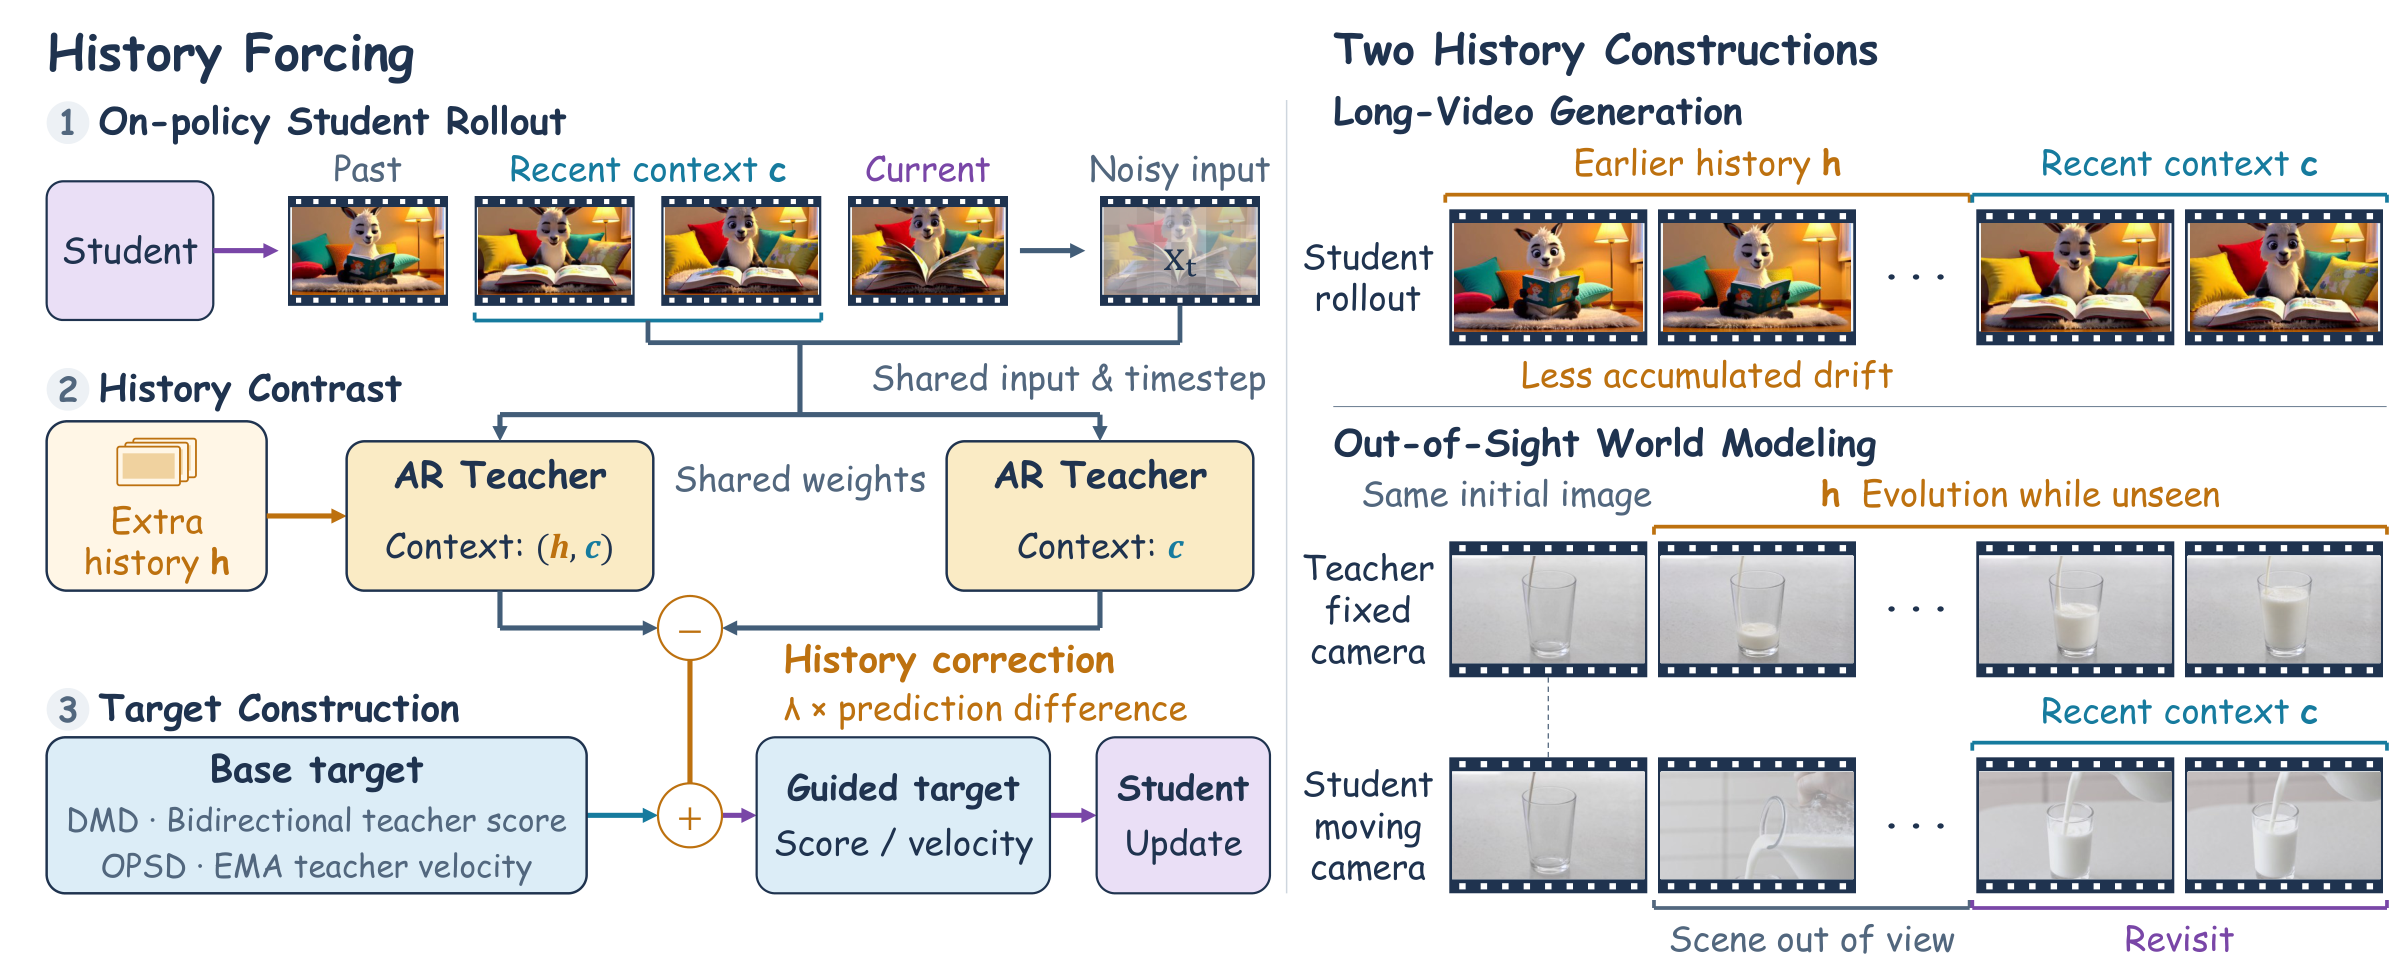
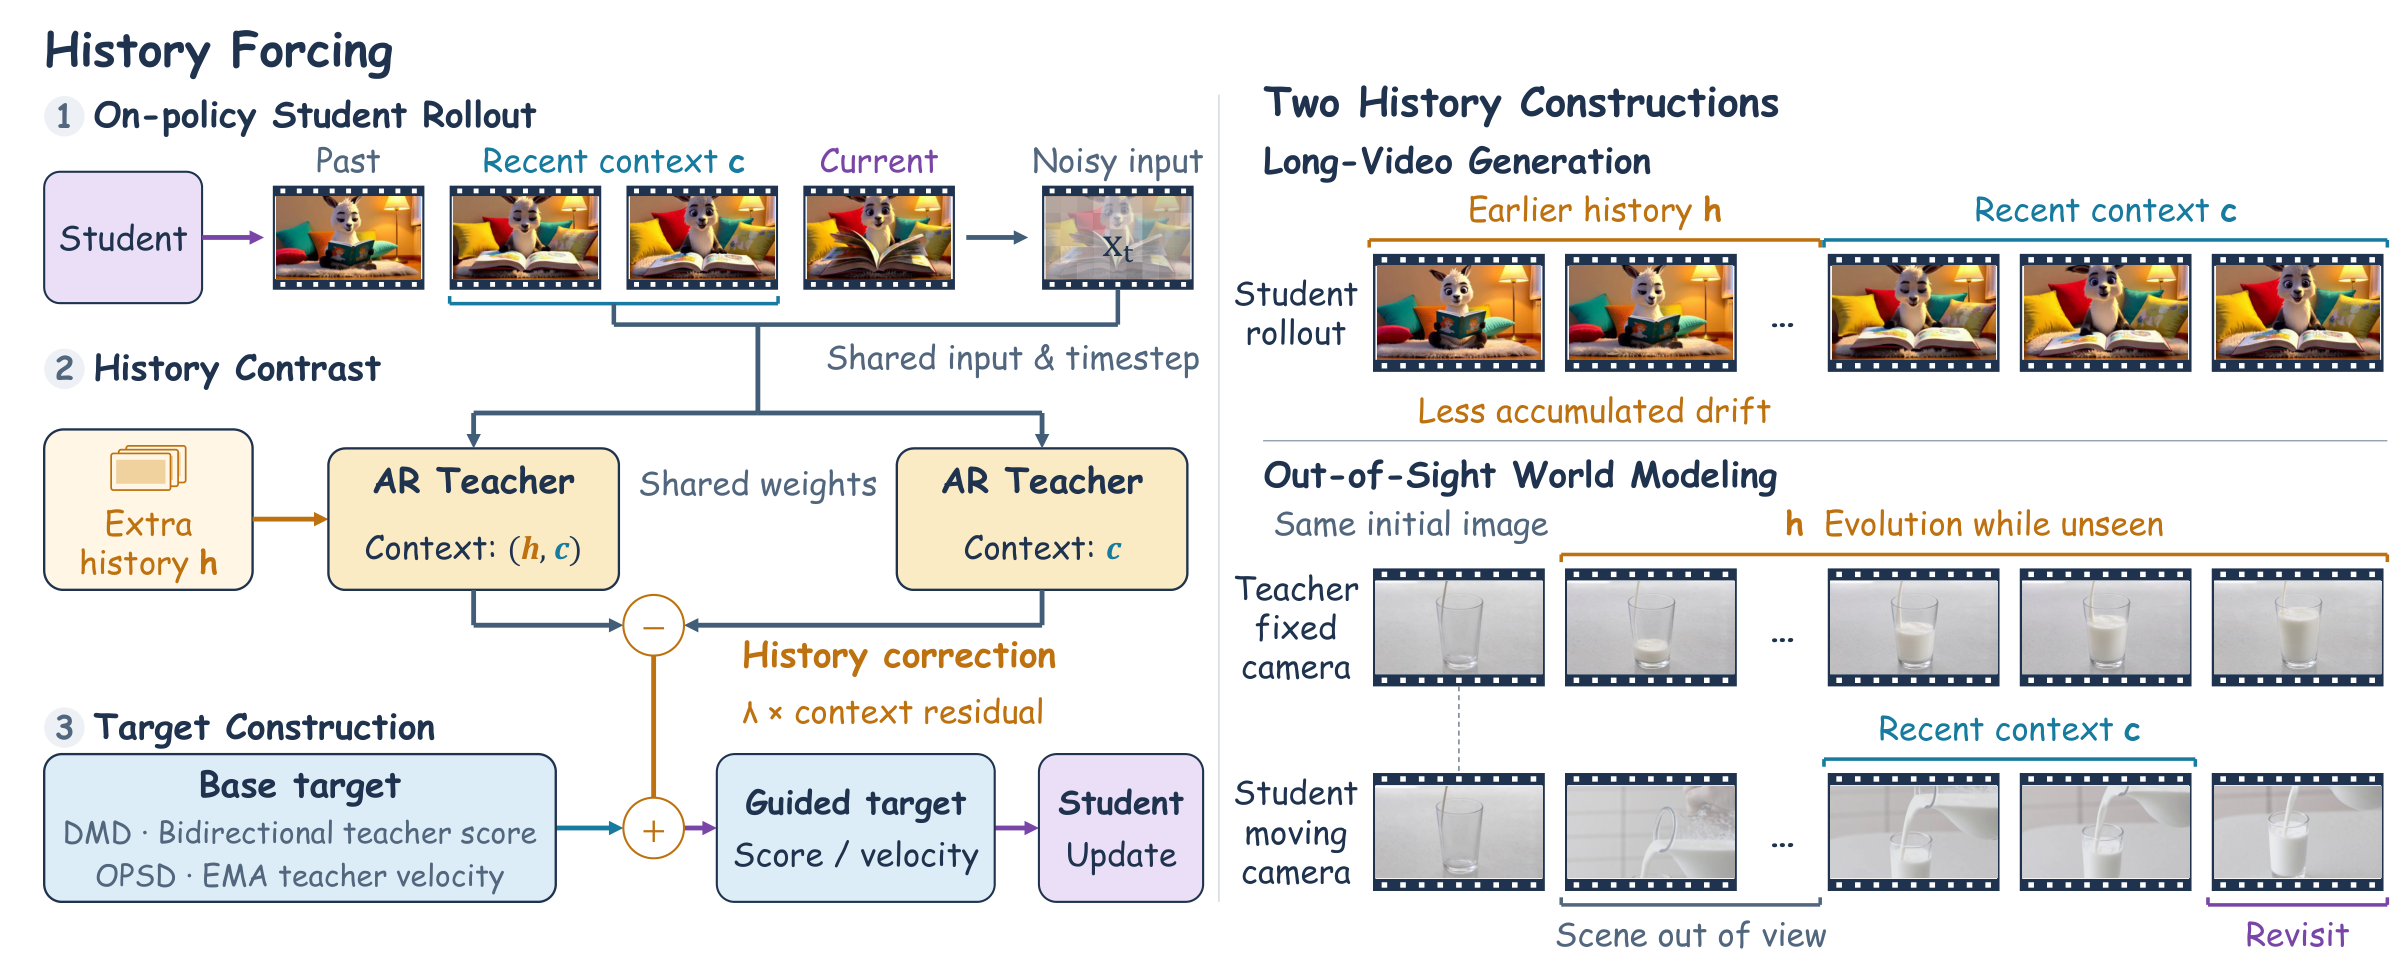
Update README

diff --git a/README.md b/README.md
@@ -2,12 +2,12 @@
 <h3 align="center">Distilling History-Dependent Continuations for Long-Horizon Video World Models</h3>
 
 <p align="center">
-  Hangyi Kuang<sup>1,*</sup>, Chengzhi Wang<sup>1,*</sup>, Yefei He<sup>1</sup>, Weijie Wang<sup>1</sup>, Yuke Zhao<sup>1</sup>, Zisu Huang<sup>2</sup><br>
-  Yifan Yang<sup>2</sup>, Xiaoxuan He<sup>1,†</sup>, Feng Chen<sup>3,†</sup>, Bohan Zhuang<sup>1</sup>
+  Hangyi Kuang<sup>1,*</sup>, Chengzhi Wang<sup>1,*</sup>, Yefei He<sup>1</sup>, Weijie Wang<sup>1</sup>, Yuke Zhao<sup>1,2</sup>, Zhuokun Chen<sup>3</sup><br>
+  Zisu Huang<sup>2</sup>, Yifan Yang<sup>2</sup>, Xiaoxuan He<sup>1,†</sup>, Feng Chen<sup>4,†</sup>, Bohan Zhuang<sup>1</sup>
 </p>
 
 <p align="center">
-  <sup>1</sup> Zhejiang University &nbsp; <sup>2</sup> Microsoft Research &nbsp; <sup>3</sup> Adelaide University<br>
+  <sup>1</sup> Zhejiang University &nbsp; <sup>2</sup> Microsoft Research &nbsp; <sup>3</sup> Monash University &nbsp; <sup>4</sup> Adelaide University<br>
   <sup>*</sup> Equal contribution &nbsp; <sup>†</sup> Corresponding authors
 </p>
 
@@ -32,13 +32,13 @@
   <img src="assets/teaser.png" width="100%" alt="History Forcing for long-video generation and out-of-sight world modeling">
 </p>
 
-**History Forcing** is a unified **on-policy distillation framework** for few-step autoregressive video models. It strengthens historical supervision to support consistent long-video generation and plausible scene evolution while regions are out of sight.
+**History Forcing** is a unified **on-policy distillation framework** for few-step autoregressive video generators. It compares teacher predictions with and without informative history, then adds the weighted residual to the score or velocity target used for distillation. This strengthens historical constraints for consistent long-video generation and plausible out-of-sight scene evolution.
 
 History Forcing introduces:
 
-1. **History-contrast supervision.** Comparing teacher predictions with and without informative history isolates the influence of history on the current prediction. This correction strengthens historical constraints separately from the base generative supervision.
-2. **Long-video consistency.** Earlier segments of the student rollout provide subject and scene information less affected by accumulated drift. The resulting history correction guides DMD while retaining the bidirectional teacher's visual-quality supervision.
-3. **Out-of-sight evolution.** Fixed-camera teacher rollouts capture how a region evolves while the student looks away. History-guided on-policy self-distillation then supervises the student's continuation when the camera returns.
+1. **History-contrast supervision.** The AR teacher predicts the same noisy student chunk under two contexts that differ only in additional history. Their residual strengthens historical constraints independently of the teacher's overall generative supervision.
+2. **Long-video consistency.** Earlier chunks of the student rollout provide subject and scene information less affected by accumulated drift. The residual corrects the DMD reference score while retaining the bidirectional teacher's visual-quality supervision.
+3. **Out-of-sight evolution.** Fixed-camera teacher rollouts model how a scene evolves while the student looks away. Their history guides the EMA teacher's velocity target for on-policy self-distillation at revisits.
 
 ## News
 
@@ -48,7 +48,7 @@ History Forcing introduces:
 ## Method Overview
 
 <p align="center">
-  <img src="assets/overview.png" width="100%" alt="History-guided target construction and the two history settings">
+  <img src="assets/overview.png" width="100%" alt="History Forcing: on-policy student rollout, history contrast, and corrected score or velocity targets for long-video generation and out-of-sight world modeling">
 </p>
 
 ## Installation
